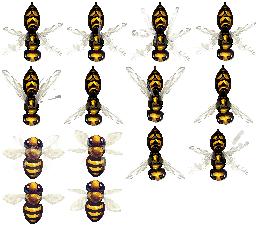
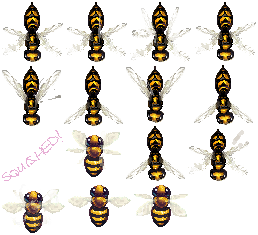
add basic squishing

diff --git a/src/iframe/game.ts b/src/iframe/game.ts
@@ -1,3 +1,4 @@
+import {devMode} from '../shared/dev-mode.ts'
 import type {Player} from '../shared/save.ts'
 import {minCanvasWH} from '../shared/theme.ts'
 import type {
@@ -16,12 +17,8 @@ import {Shmup} from './scenes/shmup.ts'
 import {Title} from './scenes/title.ts'
 
 export class Game {
-  debug: boolean
-  // to-do: compile-time constant to enable dead code removal.
-  // to-do: spawn AI?
-  /** development mode; no devvit. */
-  readonly dev: boolean = location.port === '1234'
-  readonly devPeerChan: BroadcastChannel | undefined = this.dev
+  debug: boolean = devMode
+  readonly devPeerChan: BroadcastChannel | undefined = devMode
     ? new BroadcastChannel('dev')
     : undefined
   /** undefined until Init message. */
@@ -32,7 +29,6 @@ export class Game {
   #init!: () => void
 
   constructor() {
-    this.debug = this.dev
     this.init = new Promise(resolve => (this.#init = resolve))
     const config: Phaser.Types.Core.GameConfig = {
       backgroundColor: '#f00000', // to-do: fix.
@@ -65,7 +61,7 @@ export class Game {
     addEventListener('message', ev => this.#onMsg(ev))
     postWebViewMessage(this, {type: 'Listening'})
 
-    if (this.dev) {
+    if (devMode) {
       this.devPeerChan?.addEventListener('message', ev => {
         const msg: PeerMessage = ev.data
         if (!(msg.peer.sid in this.peers))
@@ -154,9 +150,7 @@ export class Game {
     _canvasSize: Phaser.Structs.Size,
     _displaySize: Phaser.Structs.Size
   ): void {
-    for (const scene of this.phaser.scene.getScenes()) {
-      centerCam(scene)
-    }
+    for (const scene of this.phaser.scene.getScenes()) centerCam(scene)
   }
 }
 

diff --git a/src/iframe/objects/wasp.ts b/src/iframe/objects/wasp.ts
@@ -7,6 +7,7 @@ export class Wasp extends Phaser.Physics.Arcade.Sprite {
   #lifespan: number = 0
   #isChasing: boolean = false
   #target: Phaser.Math.Vector2 = new Phaser.Math.Vector2()
+  #dead: boolean = false
 
   constructor(scene: Shmup, x: number, y: number, speed: number) {
     super(scene, x, y, '')
@@ -21,6 +22,7 @@ export class Wasp extends Phaser.Physics.Arcade.Sprite {
   start(): this {
     const radius = this.width / 4
     this.setCircle(radius, this.width / 4, this.height / 4)
+    this.body.enable = true
 
     this.scene.tweens.add({
       targets: this,
@@ -36,6 +38,15 @@ export class Wasp extends Phaser.Physics.Arcade.Sprite {
       }
     })
 
+    this.#dead = false
+    this.setInteractive()
+    this.on(Phaser.Input.Events.POINTER_DOWN, () => {
+      this.scene.sound.play('doot')
+      this.play('wasp--Squished')
+      this.#dead = true
+      this.stop()
+    })
+
     return this
   }
 
@@ -47,6 +58,7 @@ export class Wasp extends Phaser.Physics.Arcade.Sprite {
   protected override preUpdate(time: number, delta: number): void {
     super.preUpdate(time, delta)
 
+    if (this.#dead) return
     if (this.#isChasing) {
       this.#lifespan -= delta
 
@@ -80,6 +92,7 @@ export class Wasp extends Phaser.Physics.Arcade.Sprite {
     this.#isChasing = false
 
     this.body.stop()
+    this.body.enable = false
 
     return this
   }

diff --git a/src/shared/types/v4.ts b/src/shared/types/v4.ts
@@ -1,3 +1,5 @@
+import {devMode} from '../dev-mode.ts'
+
 /** UUID v4. */
 export type V4 = ReturnType<typeof crypto.randomUUID>
 
@@ -5,5 +7,7 @@ export const noV4: V4 = '00000000-0000-0000-0000-000000000000'
 
 /** generates a new UUID v4. */
 export function V4(): V4 {
-  return crypto.randomUUID()
+  if (!devMode || crypto.randomUUID) return crypto.randomUUID()
+  const i = Math.trunc(Math.random() * 0xffff)
+  return `${i}-${i}-${i}-${i}-${i}`
 }

diff --git a/src/iframe/objects/bee.ts b/src/iframe/objects/bee.ts
@@ -46,7 +46,7 @@ export class Bee extends Phaser.Physics.Arcade.Sprite {
     }
 
     if (this.#isAlive) {
-      this.#target.x = this.scene.input.activePointer.x
+      this.#target.x = this.scene.input.activePointer.x - (this.width * 5) / 8
       this.#target.y = this.scene.input.activePointer.y
 
       if (

diff --git a/src/iframe/scenes/title.ts b/src/iframe/scenes/title.ts
@@ -25,7 +25,6 @@ export class Title extends Phaser.Scene {
 
     this.input.on('pointerdown', () => {
       this.scene.start(Shmup.name)
-      this.sound.play('doot')
     })
   }
 

diff --git a/src/shared/dev-mode.ts b/src/shared/dev-mode.ts
@@ -1,0 +1,3 @@
+// to-do: compile-time constant to enable dead code removal.
+/** development mode; no devvit. */
+export const devMode: boolean = location.port === '1234'
